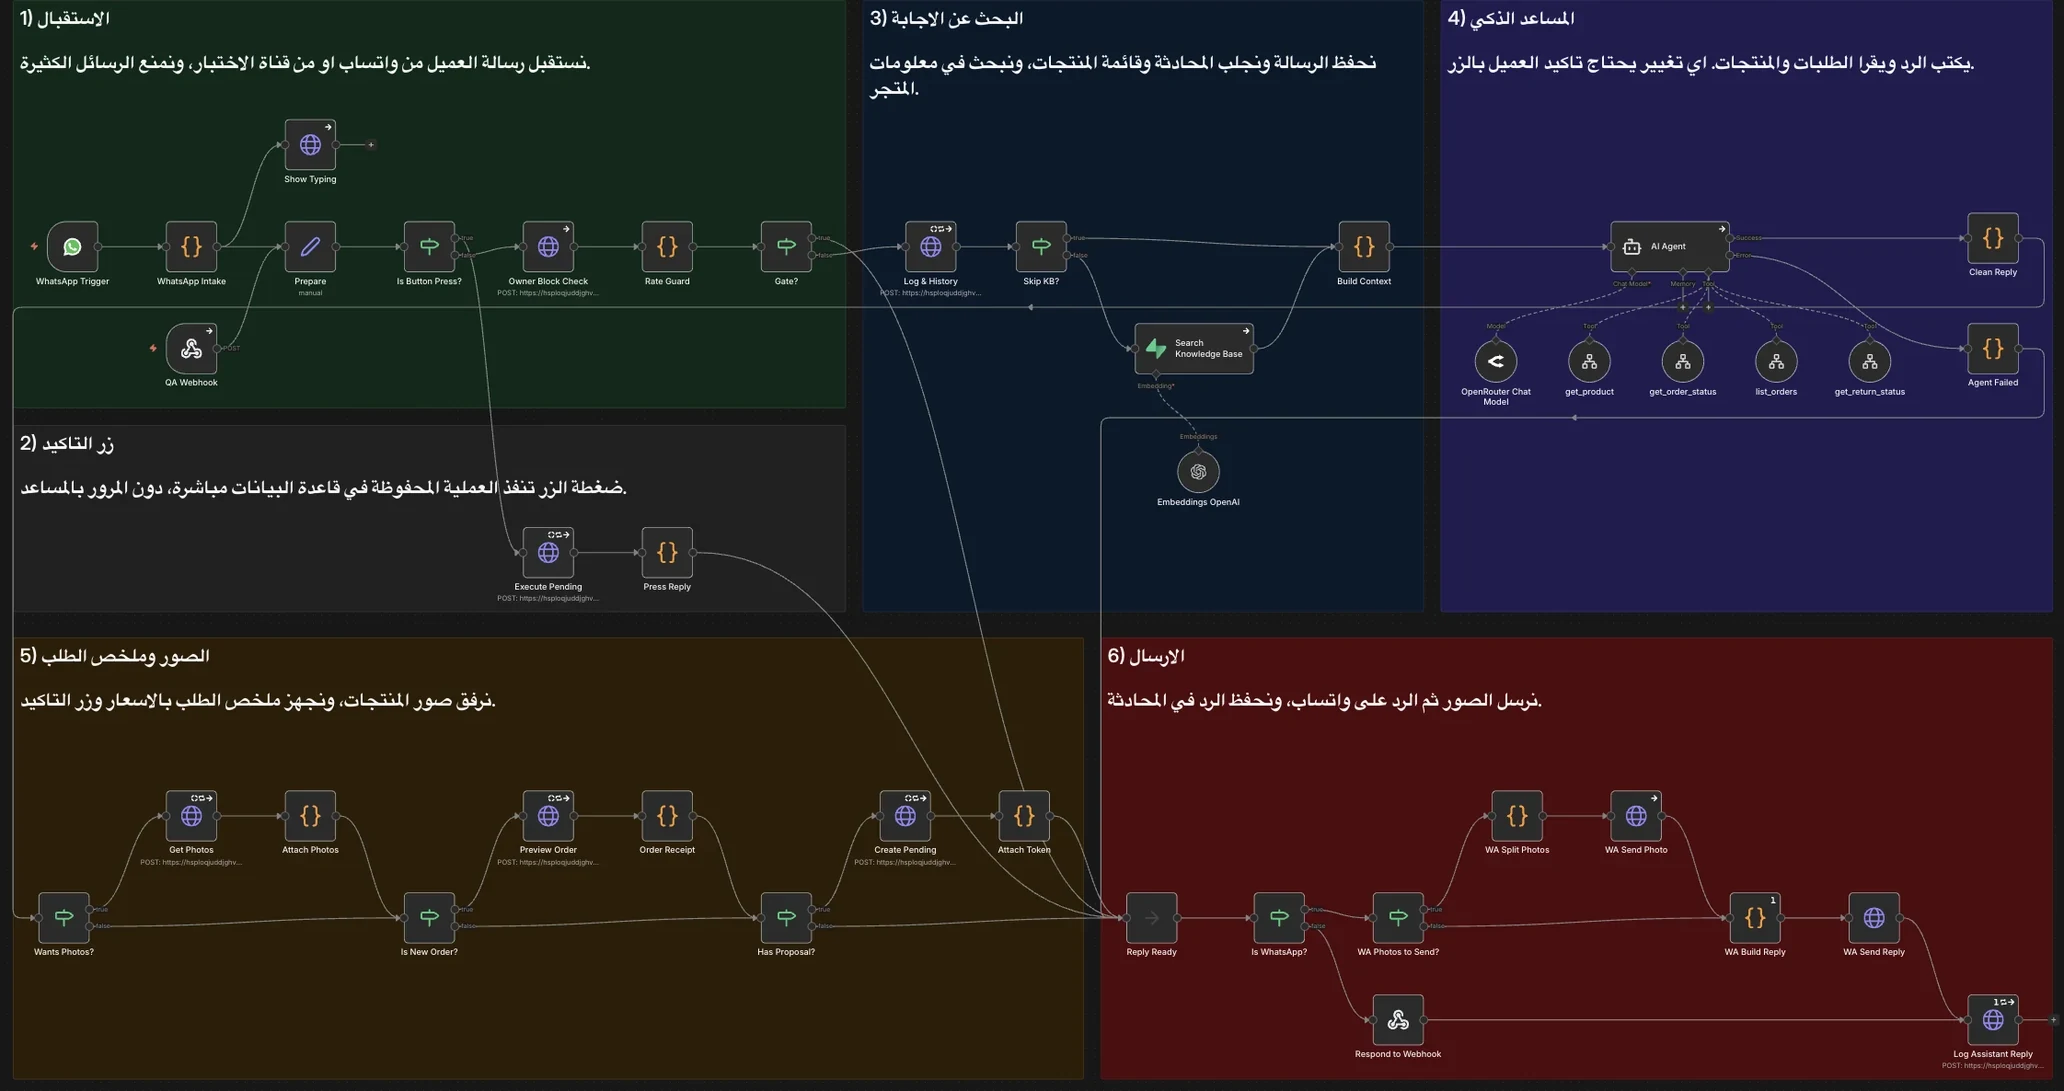
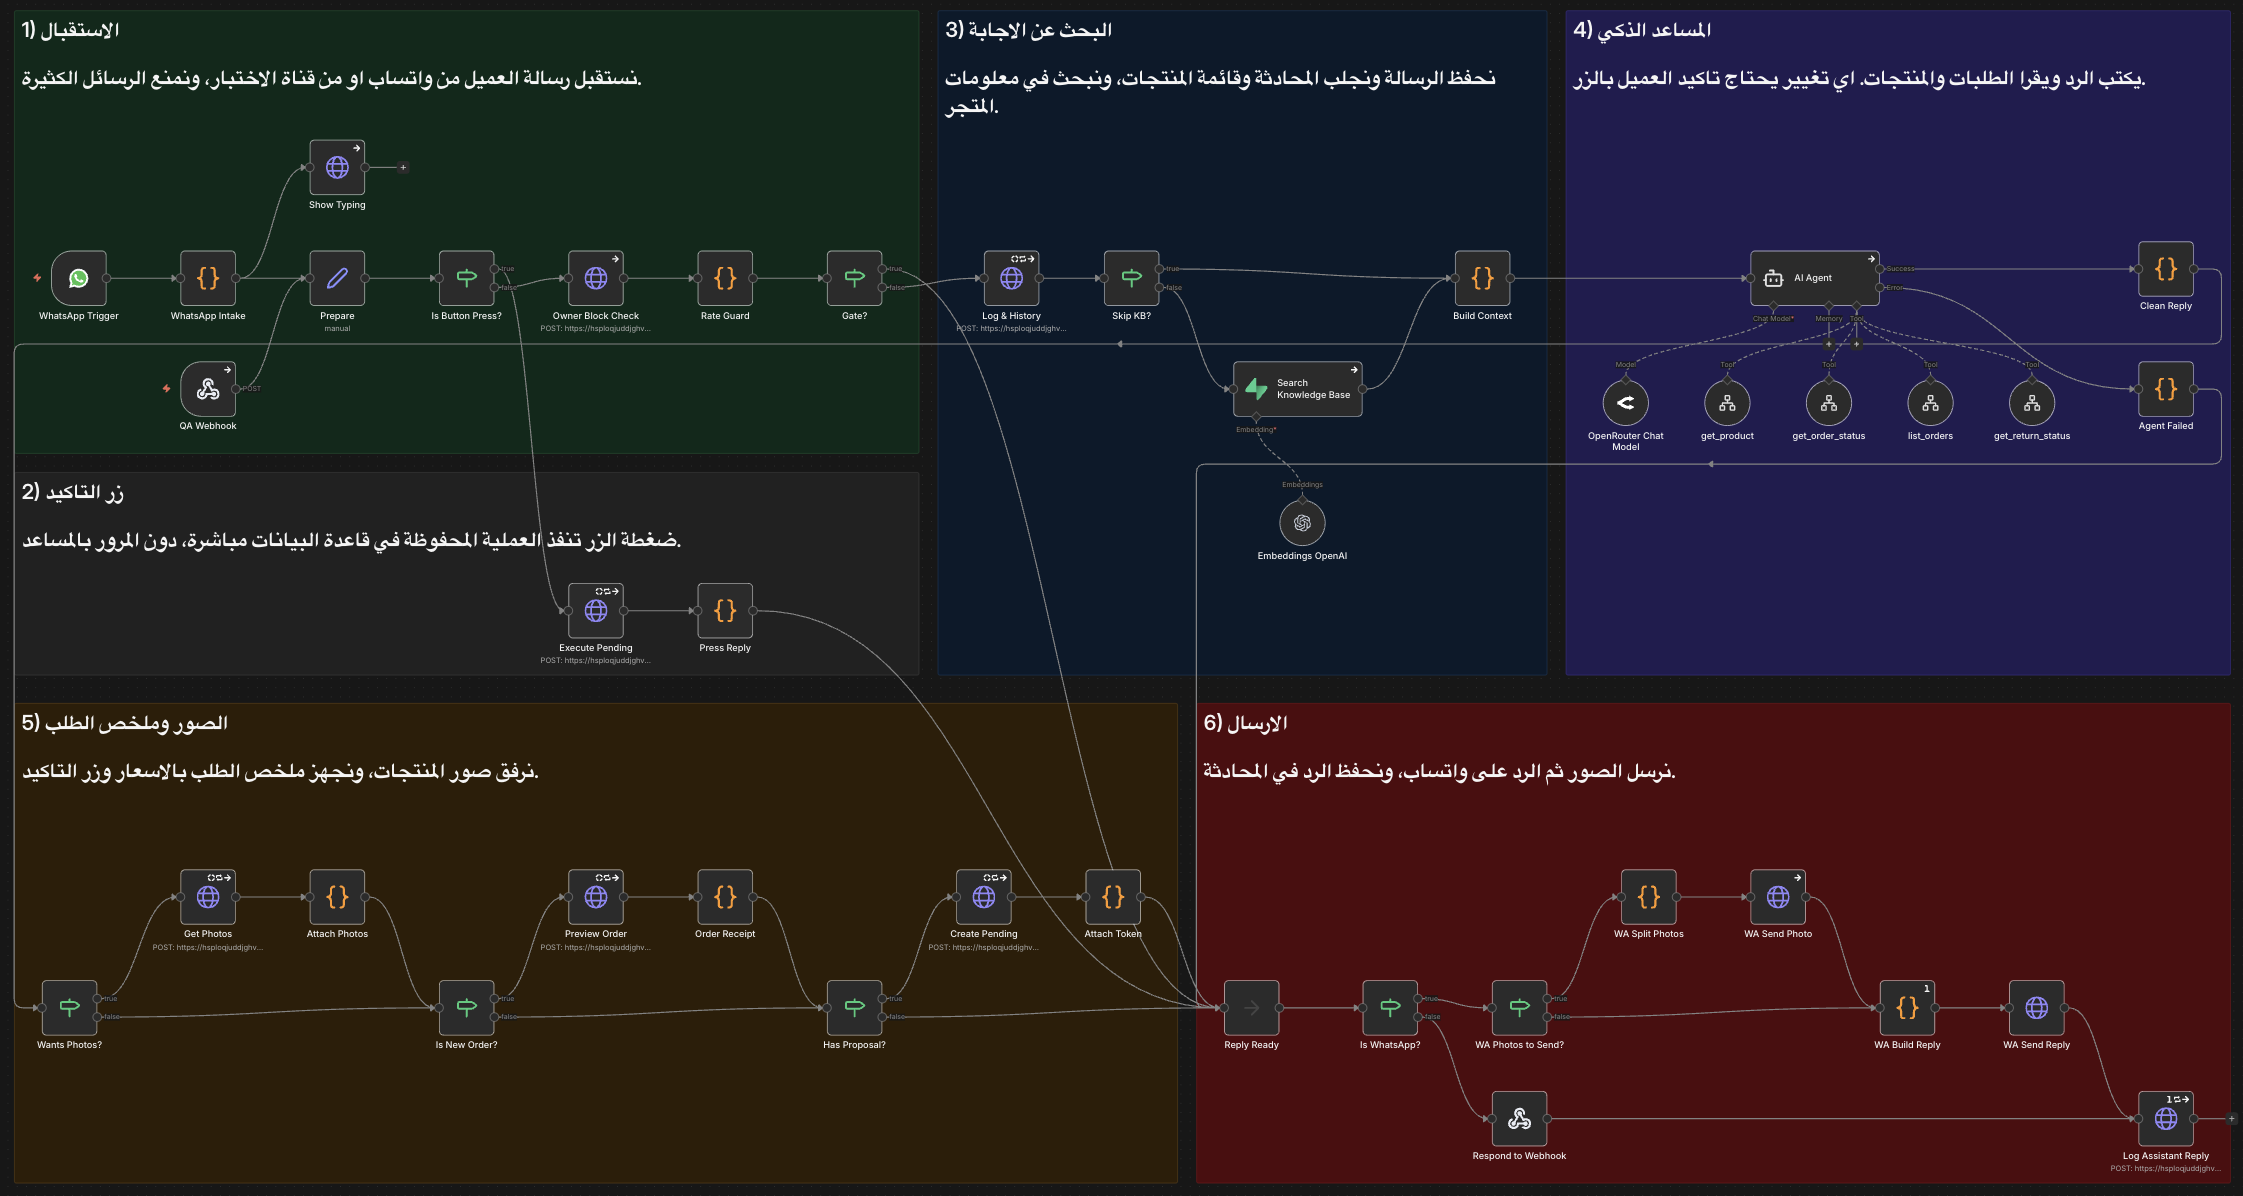
Workflow images at full screenshot resolution, lossless (store top edge even with the others); Status row removed from the three project pages

diff --git a/dr-galy-clinic.html b/dr-galy-clinic.html
@@ -52,7 +52,6 @@
       <div><dt><span data-lang="ar">القناة</span><span data-lang="en">Channel</span></dt><dd><span data-lang="ar">نافذة محادثة في موقع العيادة</span><span data-lang="en">A chat window on the clinic's website</span></dd></div>
       <div><dt><span data-lang="ar">اللغات</span><span data-lang="en">Languages</span></dt><dd><span data-lang="ar">العامية المصرية، الإنجليزية</span><span data-lang="en">Egyptian Arabic, English</span></dd></div>
       <div><dt><span data-lang="ar">الأدوات</span><span data-lang="en">Built with</span></dt><dd dir="ltr" style="text-align: start">n8n, Supabase, Cloudflare Pages</dd></div>
-      <div><dt><span data-lang="ar">الحالة</span><span data-lang="en">Status</span></dt><dd><span data-lang="ar">مشروع تجريبي، 2026</span><span data-lang="en">Demo project, 2026</span></dd></div>
     </dl>
   </div>
 
@@ -92,7 +91,7 @@
         <figure class="shot"><img src="img/clinic-chat-2.png" alt="The booking summary and the confirm button" loading="lazy"><figcaption><span data-lang="ar">ملخص الحجز وزر التأكيد</span><span data-lang="en">The booking summary and the confirm button</span></figcaption></figure>
         <figure class="shot"><img src="img/clinic-chat-3.png" alt="The booking confirmed" loading="lazy"><figcaption><span data-lang="ar">تأكيد الحجز</span><span data-lang="en">The booking confirmed</span></figcaption></figure>
       </div>
-      <figure class="shot wide"><a href="img/clinic-workflow.webp" target="_blank" rel="noopener"><img src="img/clinic-workflow.webp" width="2064" height="477" alt="n8n workflow" loading="lazy"></a><figcaption><span data-lang="ar">مسار العمل على n8n (اضغط على الصورة لتكبيرها)</span><span data-lang="en">The workflow in n8n (tap the image to enlarge it)</span></figcaption></figure>
+      <figure class="shot wide"><a href="img/clinic-workflow.webp" target="_blank" rel="noopener"><img src="img/clinic-workflow.webp" width="2720" height="629" alt="n8n workflow" loading="lazy"></a><figcaption><span data-lang="ar">مسار العمل على n8n (اضغط على الصورة لتكبيرها)</span><span data-lang="en">The workflow in n8n (tap the image to enlarge it)</span></figcaption></figure>
     </div>
   </section>
 

diff --git a/coach-galy.html b/coach-galy.html
@@ -52,7 +52,6 @@
       <div><dt><span data-lang="ar">القناة</span><span data-lang="en">Channel</span></dt><dd><span data-lang="ar">تيليجرام، ومصمم ليعمل على واتساب أيضا</span><span data-lang="en">Telegram, and designed to run on WhatsApp too</span></dd></div>
       <div><dt><span data-lang="ar">اللغات</span><span data-lang="en">Languages</span></dt><dd><span data-lang="ar">العامية المصرية، الإنجليزية</span><span data-lang="en">Egyptian Arabic, English</span></dd></div>
       <div><dt><span data-lang="ar">الأدوات</span><span data-lang="en">Built with</span></dt><dd dir="ltr" style="text-align: start">Telegram Bot API, n8n, Supabase</dd></div>
-      <div><dt><span data-lang="ar">الحالة</span><span data-lang="en">Status</span></dt><dd><span data-lang="ar">مشروع تجريبي، 2026</span><span data-lang="en">Demo project, 2026</span></dd></div>
     </dl>
   </div>
 
@@ -92,7 +91,7 @@
         <figure class="shot"><img src="img/coach-chat-2.png" alt="The plan file arriving" loading="lazy"><figcaption><span data-lang="ar">وصول ملف الخطة</span><span data-lang="en">The plan file arriving</span></figcaption></figure>
         <figure class="shot"><img src="img/coach-chat-3.png" alt="A question about an exercise" loading="lazy"><figcaption><span data-lang="ar">سؤال عن تمرين</span><span data-lang="en">A question about an exercise</span></figcaption></figure>
       </div>
-      <figure class="shot wide"><a href="img/coach-workflow.webp" target="_blank" rel="noopener"><img src="img/coach-workflow.webp" width="2064" height="449" alt="n8n workflow" loading="lazy"></a><figcaption><span data-lang="ar">مسار العمل على n8n (اضغط على الصورة لتكبيرها)</span><span data-lang="en">The workflow in n8n (tap the image to enlarge it)</span></figcaption></figure>
+      <figure class="shot wide"><a href="img/coach-workflow.webp" target="_blank" rel="noopener"><img src="img/coach-workflow.webp" width="2694" height="586" alt="n8n workflow" loading="lazy"></a><figcaption><span data-lang="ar">مسار العمل على n8n (اضغط على الصورة لتكبيرها)</span><span data-lang="en">The workflow in n8n (tap the image to enlarge it)</span></figcaption></figure>
     </div>
   </section>
 

diff --git a/galy-fashion.html b/galy-fashion.html
@@ -52,7 +52,6 @@
       <div><dt><span data-lang="ar">القناة</span><span data-lang="en">Channel</span></dt><dd><span data-lang="ar">واتساب</span><span data-lang="en">WhatsApp</span></dd></div>
       <div><dt><span data-lang="ar">اللغات</span><span data-lang="en">Languages</span></dt><dd><span data-lang="ar">العامية المصرية، الإنجليزية</span><span data-lang="en">Egyptian Arabic, English</span></dd></div>
       <div><dt><span data-lang="ar">الأدوات</span><span data-lang="en">Built with</span></dt><dd dir="ltr" style="text-align: start">WhatsApp Cloud API, n8n, Supabase</dd></div>
-      <div><dt><span data-lang="ar">الحالة</span><span data-lang="en">Status</span></dt><dd><span data-lang="ar">مشروع تجريبي، 2026</span><span data-lang="en">Demo project, 2026</span></dd></div>
     </dl>
   </div>
 
@@ -92,7 +91,7 @@
         <figure class="shot"><img src="img/store-chat-2.png" alt="The order summary and the confirm button" loading="lazy"><figcaption><span data-lang="ar">ملخص الطلب وزر التأكيد</span><span data-lang="en">The order summary and the confirm button</span></figcaption></figure>
         <figure class="shot"><img src="img/store-chat-3.png" alt="Tracking the order" loading="lazy"><figcaption><span data-lang="ar">متابعة الطلب</span><span data-lang="en">Tracking the order</span></figcaption></figure>
       </div>
-      <figure class="shot wide"><a href="img/store-workflow.webp" target="_blank" rel="noopener"><img src="img/store-workflow.webp" width="2064" height="1091" alt="n8n workflow" loading="lazy"></a><figcaption><span data-lang="ar">مسار العمل على n8n (اضغط على الصورة لتكبيرها)</span><span data-lang="en">The workflow in n8n (tap the image to enlarge it)</span></figcaption></figure>
+      <figure class="shot wide"><a href="img/store-workflow.webp" target="_blank" rel="noopener"><img src="img/store-workflow.webp" width="2243" height="1196" alt="n8n workflow" loading="lazy"></a><figcaption><span data-lang="ar">مسار العمل على n8n (اضغط على الصورة لتكبيرها)</span><span data-lang="en">The workflow in n8n (tap the image to enlarge it)</span></figcaption></figure>
     </div>
   </section>
 
